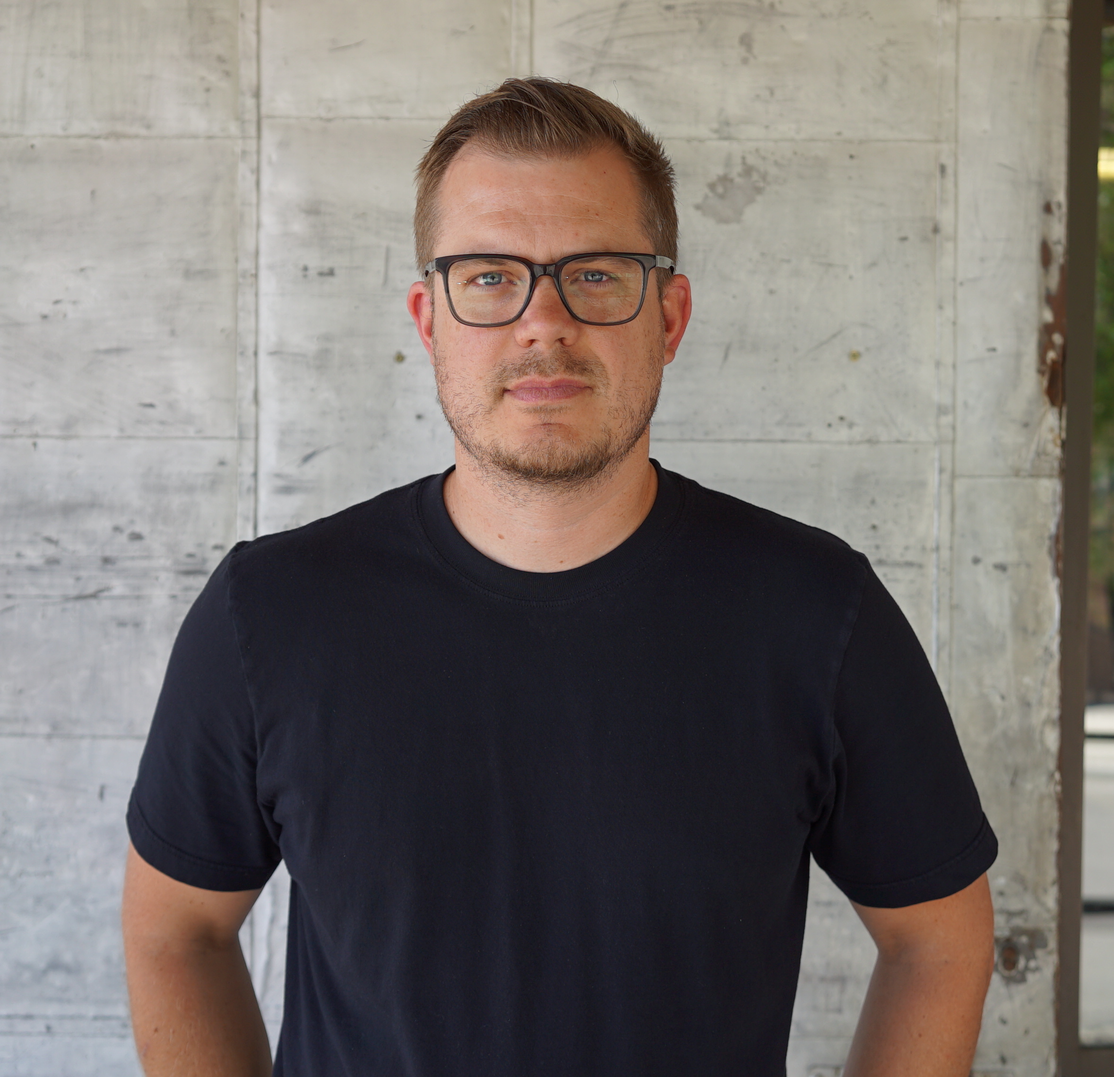
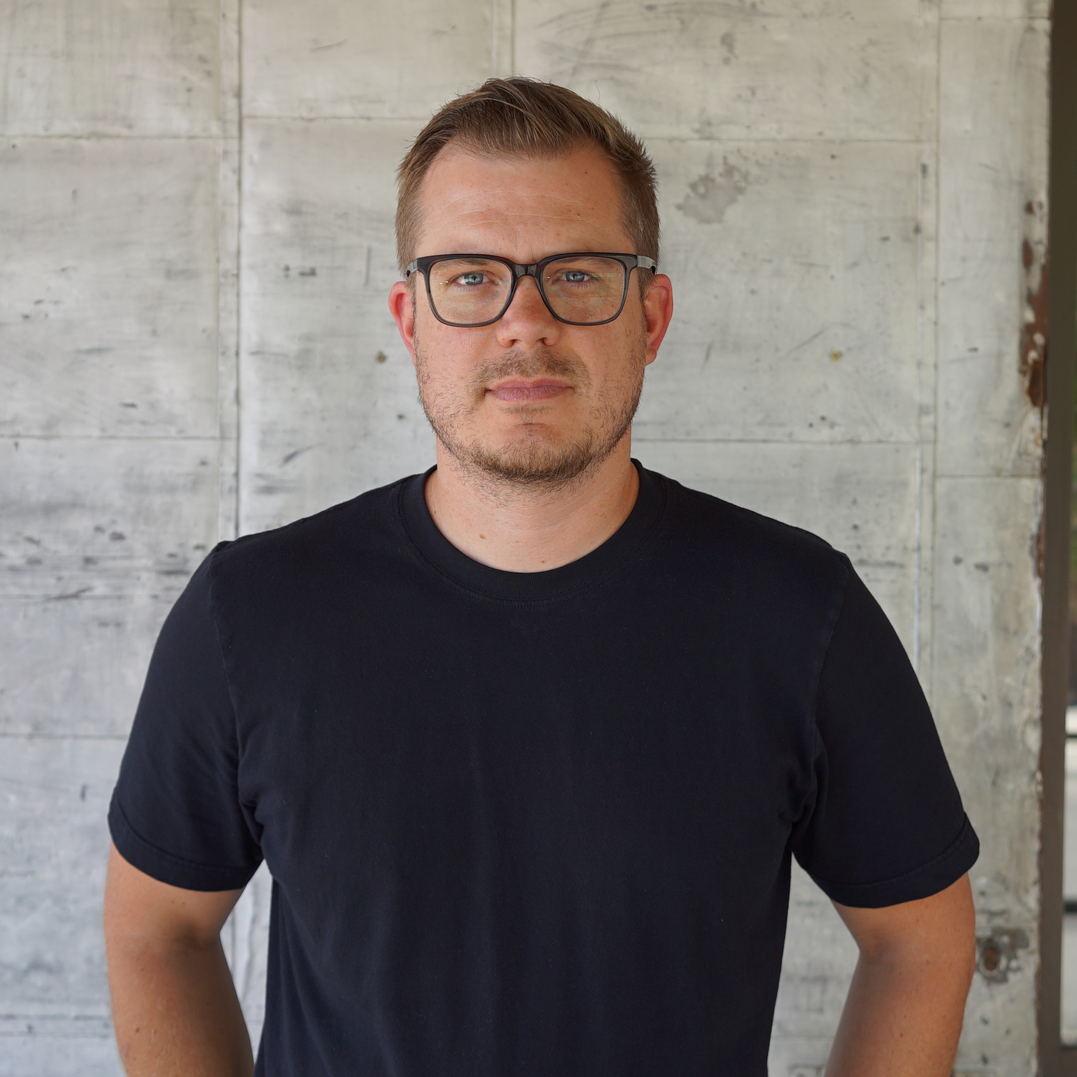
Square up Jake's photo; update Adam's and Enoch's photos

diff --git a/_site/credits/index.html b/_site/credits/index.html
@@ -228,7 +228,7 @@
       </h2>
       
       <a href="https://twitter.com/lonelysandwich">
-        <img class="img-responsive" src="/images/adam-lisagor.jpg">
+        <img class="img-responsive" src="/images/cast/adam.jpg">
       </a>
       <h3 class="name">
         <a href="https://twitter.com/lonelysandwich">
@@ -336,7 +336,7 @@
       </h2>
       
       <a href="https://twitter.com/themusemaker">
-        <img class="img-responsive" src="/images/enoch-kim.jpg">
+        <img class="img-responsive" src="/images/cast/enoch.jpg">
       </a>
       <h3 class="name">
         <a href="https://twitter.com/themusemaker">
